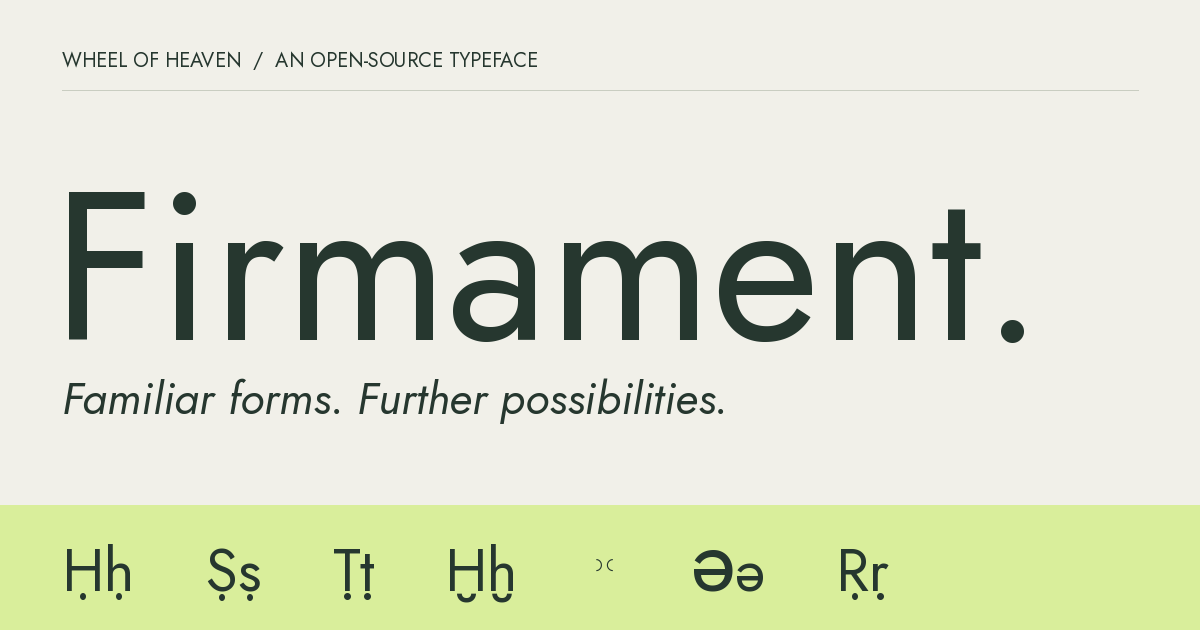
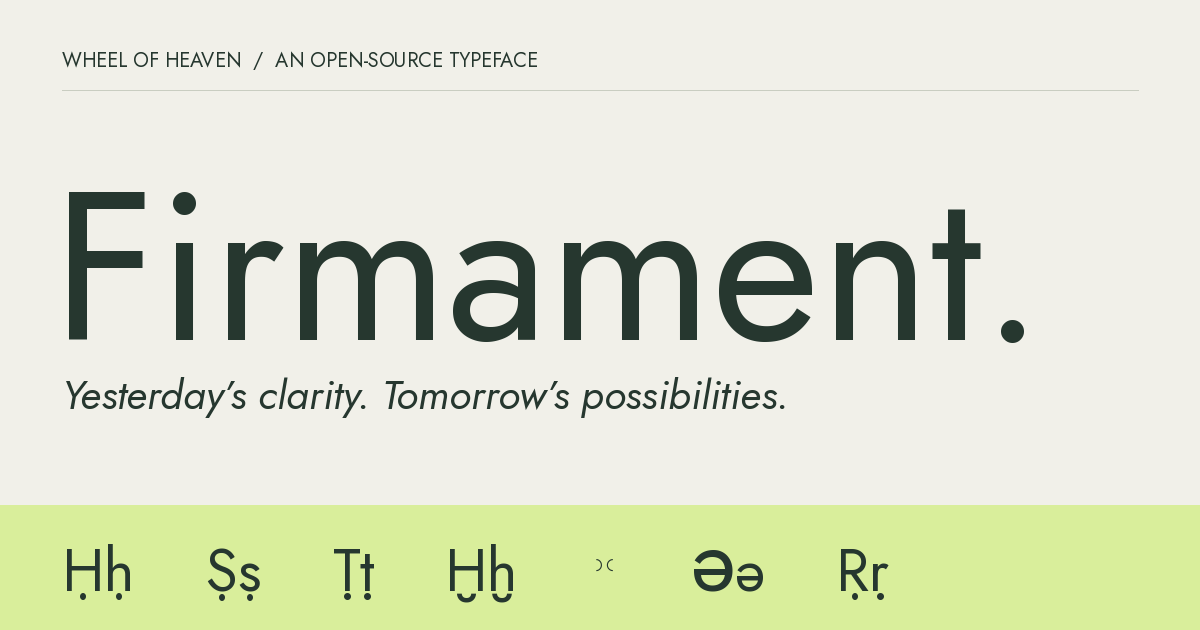
Tell Firmament’s modernist story and evaluate script expansion

Changed region(s): [[0.0308, 0.6032, 0.6475, 0.6635]]

diff --git a/templates/index.html b/templates/index.html
@@ -8,7 +8,7 @@
     <meta name="description" content="{{ config.description }}">
     <link rel="canonical" href="{{ config.base_url }}/">
     <meta property="og:title" content="Firmament Sans — A scholarly typeface">
-    <meta property="og:description" content="Familiar forms. Further possibilities. Four styles, 584 Unicode characters, and a growing vocabulary of diacritics.">
+    <meta property="og:description" content="1920s clarity. Tomorrow’s knowledge. A scholarly extension of Jost, built around the principle that form follows function.">
     <meta property="og:type" content="website">
     <meta property="og:url" content="{{ config.base_url }}/">
     <meta property="og:image" content="{{ get_url(path='assets/social.png') }}">
@@ -29,7 +29,7 @@
 <section class="hero wrap" id="top" aria-labelledby="hero-title">
     <div class="eyebrow hero__meta"><span>An open-source typeface · v0.1</span><span>By Wheel of Heaven</span></div>
     <h1 id="hero-title">Firmament<span class="hero__period">.</span></h1>
-    <div class="hero__bottom"><p class="hero__statement">Familiar forms.<br><em>Further possibilities.</em></p><div class="hero__intro"><p>A scholarly extension of Jost. Made for the words that carry a little more: a macron, a half ring, a history.</p><a class="text-link" href="#typesetter">Explore the specimen <span aria-hidden="true">↓</span></a></div></div>
+    <div class="hero__bottom"><p class="hero__statement">Yesterday’s clarity.<br><em>Tomorrow’s possibilities.</em></p><div class="hero__intro"><p>The spirit of 1920s German design, extended for the knowledge we pass forward. A scholarly typeface built on Jost. Form follows function; ideas travel further.</p><a class="text-link" href="#typesetter">Explore the specimen <span aria-hidden="true">↓</span></a></div></div>
     <div class="hero__facts"><span><strong>04</strong> Static styles</span><span><strong>584</strong> Unicode characters</span><span><strong>60</strong> New additions</span><span><strong>OFL</strong> Open Font License</span></div>
 </section>
 
@@ -45,7 +45,7 @@
             <label class="range-label">Leading <output id="type-leading-label" for="type-leading">1.15</output><input id="type-leading" type="range" min="100" max="180" value="115"></label>
             <fieldset class="swatches"><legend>Paper</legend><button type="button" data-paper="paper" class="swatch swatch--paper" aria-label="Paper background" aria-pressed="true"></button><button type="button" data-paper="ink" class="swatch swatch--ink" aria-label="Ink background" aria-pressed="false"></button><button type="button" data-paper="lime" class="swatch swatch--lime" aria-label="Lime background" aria-pressed="false"></button></fieldset>
         </div>
-        <div class="tester__canvas" id="type-canvas"><textarea id="type-text" rows="3" spellcheck="false" aria-label="Editable type specimen">Under the same sky,&#10;another way to read.</textarea></div>
+        <div class="tester__canvas" id="type-canvas"><textarea id="type-text" rows="3" spellcheck="false" aria-label="Editable type specimen">Form follows function.&#10;Knowledge travels further.</textarea></div>
         <div class="tester__footer"><div class="presets" aria-label="Sample texts"><button type="button" data-preset="sentence" aria-pressed="true">Sentence</button><button type="button" data-preset="pangram" aria-pressed="false">Pangram</button><button type="button" data-preset="scholarly" aria-pressed="false">Diacritics</button><button type="button" data-preset="cyrillic" aria-pressed="false">Cyrillic</button></div><button class="plain-button" id="reset-type" type="button">Reset ↺</button></div>
         <p class="tester__notice" id="coverage-notice" aria-live="polite"></p>
     </div>
@@ -80,20 +80,40 @@
     <p class="footnote">584 Unicode mappings per style. Spaces and invisible control characters are omitted from the grid. Combining marks appear with a dotted circle for visibility.</p>
 </section>
 
-<section class="poster" aria-label="Display specimen"><div class="wrap"><div class="eyebrow">06 / In large print</div><p class="poster__top">The shape<br>of <em>knowledge.</em></p><div class="poster__bottom"><span>Letters make room<br>for the world.</span><span class="poster__mark" aria-hidden="true">Aa<span>↗</span></span><span>Firmament Sans<br>Regular + Italic</span></div></div></section>
+<section class="poster" aria-label="Display specimen"><div class="wrap"><div class="eyebrow">06 / In large print</div><p class="poster__top">The shape<br>of <em>tomorrow.</em></p><div class="poster__bottom"><span>Knowledge, carried<br>from hand to hand.</span><span class="poster__mark" aria-hidden="true">Aa<span>↗</span></span><span>Firmament Sans<br>Regular + Italic</span></div></div></section>
 
 <section class="section wrap reading" id="reading" aria-labelledby="reading-title">
     <div class="section-head"><div class="eyebrow">07 / In small print</div><h2 id="reading-title">A face for staying a while.</h2><p>Display character, with room for a long thought.</p></div>
-    <div class="reading__columns"><article><span class="eyebrow">24 px / Regular</span><h3>The space between words</h3><p>Reading is an act of attention. A familiar shape becomes a sound, a sound becomes a word, and a word opens a world. Typography lives in that brief passage, giving each thought enough room to arrive.</p><p>When an unfamiliar letter appears, the sentence should still feel continuous. The marks may change; the rhythm remains.</p></article><article><span class="eyebrow">19 px / Regular + Italic</span><h3>A shared vocabulary</h3><p>Across languages, a line above a vowel or a dot below a consonant can carry a distinction that ordinary spelling leaves out. The terms <em>šāmayim</em>, <em>ḥayyīm</em>, and <em>ʾĕlōhīm</em> bring those distinctions into Latin letters.</p><p>Firmament began with these small interruptions in reading: a fallback character that sat a little too high, a mark that belonged to another typeface. Its additions aim to make the typography feel whole again.</p></article><article><span class="eyebrow">16 px / Regular + Bold</span><h3>Notes in the margin</h3><p><strong>Form and function.</strong> The family retains the geometry and proportions of Jost while extending its scholarly vocabulary. Regular and bold each have a corresponding italic.</p><p><strong>A growing set.</strong> Version 0.1 adds 60 Unicode mappings to full upstream Jost, including uppercase partners and combining marks. It is a starting point for further design and review.</p><p><strong>Open by design.</strong> The font source, build scripts, and coverage audit are available to study, modify, and improve under the Open Font License.</p></article></div>
+    <div class="reading__columns">
+        <article><span class="eyebrow">24 px / Regular</span><h3>What we pass forward</h3><p>Every generation inherits a world of words. Some arrive in books, others on screens; some survive only because someone took the trouble to copy them. Their next reader deserves the same care.</p><p>For Firmament, the best way to carry knowledge forward begins with form following function: letters that remain clear, distinctions that remain visible, and tools that others can use and improve.</p></article>
+        <article><span class="eyebrow">19 px / Regular + Italic</span><h3>A future we can read</h3><p>We imagine a society in which knowledge is easier to share, study, and question. Its typography should invite participation. A page can be precise and welcoming at once.</p><p>A dot below a consonant or a line above a vowel has work to do. In <em>ḥayyīm</em>, <em>šāmayim</em>, and <em>ʾĕlōhīm</em>, those marks carry distinctions into another alphabet. Giving them a coherent form is a small, practical contribution to that future.</p></article>
+        <article><span class="eyebrow">16 px / Regular + Bold</span><h3>Useful by design</h3><p><strong>Read.</strong> Keep the rhythm of a sentence intact, including the unfamiliar letters that give it meaning.</p><p><strong>Share.</strong> Make the typeface available under an open license, with its source and the means to build it.</p><p><strong>Continue.</strong> Leave the next generation something it can inspect, adapt, and improve. A living inheritance needs room to grow.</p></article>
+    </div>
 </section>
 
 <section class="section language"><div class="wrap"><div class="section-head"><div class="eyebrow">08 / Across the page</div><h2>Different words.<br>The same underlying voice.</h2><p>Selected reading proofs, rather than a claim of complete language coverage.</p></div><div class="language__rows"><div><span class="eyebrow">English</span><p lang="en">The quick brown fox jumps over the lazy dog.</p></div><div><span class="eyebrow">Deutsch</span><p lang="de">Zwölf große Bücher erzählen von fernen Ländern.</p></div><div><span class="eyebrow">Français</span><p lang="fr">À travers les siècles, les idées voyagent.</p></div><div><span class="eyebrow">Español</span><p lang="es">La curiosidad abre un diálogo entre épocas.</p></div><div><span class="eyebrow">Čeština</span><p lang="cs">Příliš žluťoučký kůň úpěl ďábelské ódy.</p></div><div><span class="eyebrow">Русский</span><p lang="ru">Слова соединяют времена и культуры.</p></div><div><span class="eyebrow">Transliteration</span><p>ā ē ī ō ū · š ś · ḥ ṣ ṭ ḫ · ṛ ṝ ḷ · ʾ ʿ</p></div></div></div></section>
 
 <section class="section wrap numbers" aria-labelledby="numbers-title"><div class="section-head"><div class="eyebrow">09 / Numbers & signs</div><h2 id="numbers-title">The rest of the sentence.</h2></div><p class="numbers__big">0123456789</p><div class="numbers__pairs"><p>€ £ $ ¥ ¢<br>+ − × ÷ = %</p><p class="italic">“A thought,” she said.<br>(And another.)</p></div><div class="waterfall"><p style="--size:48px">ABCDEFGHIJKLMNOPQRSTUVWXYZ</p><p style="--size:36px">abcdefghijklmnopqrstuvwxyz</p><p style="--size:28px">ÀÁÂÃÄÅ Æ Ç ÈÉÊË ÌÍÎÏ Ñ ÒÓÔÕÖ Ø ÙÚÛÜ Ý</p><p style="--size:22px">àáâãäå æ ç èéêë ìíîï ñ òóôõö ø ùúûü ý ÿ ß œ</p><p style="--size:17px">АБВГДЕЁЖЗИЙКЛМНОПРСТУФХЦЧШЩЪЫЬЭЮЯ · абвгдеёжзийклмнопрстуфхцчшщъыьэюя</p></div></section>
 
-<section class="section story" id="story" aria-labelledby="story-title"><div class="wrap story__layout"><div><div class="eyebrow">10 / Origins & intentions</div><h2 id="story-title">A new branch.<br>A familiar root.</h2><p class="lede">Firmament Sans is an independent scholarly extension of Jost, designed by Owen Earl at indestructible type.</p></div><div class="story__body"><p>The project began while reading Wheel of Heaven’s essays and etymologies. Jost fit the character of the site, but some transliterated letters required a different font. Firmament keeps the design that was already working and extends its reach.</p><p>The pilot adds scholarly Latin characters using Jost’s own accent and letter components, along with newly constructed half rings. Original Latin and Cyrillic forms remain, and each addition is built in regular, italic, bold, and bold italic.</p><p>The name points to the shared sky above a collection of languages and traditions. The work belongs to an open process: reproducible builds, a corpus-based inventory, and visual review.</p><div class="story__credits"><div><span>Original typeface</span><a href="https://indestructibletype.com/Jost.html">Jost · Owen Earl ↗</a></div><div><span>Scholarly extension</span><a href="https://www.wheelofheaven.world/">Wheel of Heaven ↗</a></div><div><span>License</span><a href="{{ get_url(path='downloads/OFL.txt') }}">SIL Open Font License 1.1 ↗</a></div></div></div></div></section>
+<section class="section story" id="story" aria-labelledby="story-title">
+    <div class="wrap">
+        <div class="story__layout">
+            <div><div class="eyebrow">10 / Origins & intentions</div><h2 id="story-title">A century of clarity.<br>A future to write.</h2><p class="lede">Firmament carries the spirit of German modernism into a typeface for shared knowledge.</p></div>
+            <div class="story__body"><p>In 1920s Germany, artists and designers reconsidered how everyday things could serve a changing society. The page became a place to experiment with order, economy, and new ways of seeing.</p><p>Our typographic starting point is <a href="https://indestructibletype.com/Jost.html">Jost, Owen Earl’s contemporary response to the spirit of Futura</a>. Firmament extends that work with scholarly characters. Its wider design outlook draws on three distinct currents of the period.</p></div>
+        </div>
+        <div class="story__movements">
+            <article><span class="eyebrow">01 / Bauhaus</span><h3>Design enters daily life.</h3><p>At the Bauhaus, the printing and advertising workshop brought experimental typography into practical communication. Established in Dessau in 1925, it treated the printed page as something to design for use.</p><a class="story__source" href="https://bauhauskooperation.de/en/knowledge/the-bauhaus/training/workshops/printing-and-advertising-workshop">The Bauhaus workshop ↗</a></article>
+            <article><span class="eyebrow">02 / New Typography</span><h3>Give thought an order.</h3><p>The New Typography made asymmetry, sans serif type, and the organisation of information central to a new graphic language. Jan Tschichold’s 1928 book helped articulate this international movement. We inherit its concern for a page’s purpose.</p><a class="story__source" href="https://www.moma.org/calendar/exhibitions/1013">The New Typography at MoMA ↗</a></article>
+            <article><span class="eyebrow">03 / New Objectivity</span><h3>Attend to what is there.</h3><p>New Objectivity brought a sober, often critical attention to the realities of Weimar life. For Firmament, that suggests a discipline: look closely, preserve distinctions, and let the subject remain visible. This is our interpretation of its relevance to type.</p><a class="story__source" href="https://www.moma.org/collection/terms/neue-sachlichkeit-new-objectivity">New Objectivity at MoMA ↗</a></article>
+        </div>
+        <div class="story__layout story__principle">
+            <div><div class="eyebrow">The principle we carry forward</div><h3 class="story__maxim">Form follows<br><em>function.</em></h3><p class="story__note">The maxim predates the Bauhaus: <a href="https://textbookofarchitecture.com/source/sullivan">Louis Sullivan formulated it in 1896</a>. Here, its function is the transmission of knowledge.</p></div>
+            <div class="story__body"><p>Our revival looks toward a society that makes knowledge available to everyone willing to learn. For us, the best way to pass it from one generation to the next is to design around that purpose: make it legible, keep its distinctions intact, and leave its tools open to improvement.</p><p>That purpose gives even the smallest mark a reason to exist. A macron carries a sound; a dot below a letter preserves a distinction. Beauty grows from how well these forms work together.</p><p>Firmament began among the essays and etymologies of <a href="https://www.wheelofheaven.world/">Wheel of Heaven</a>, where old words meet questions about humanity’s future. We like to keep our feet on the baseline and our eyes on the stars. The next turn of the wheel deserves something worth reading.</p><div class="story__credits"><div><span>Original typeface</span><a href="https://indestructibletype.com/Jost.html">Jost · Owen Earl ↗</a></div><div><span>Scholarly extension</span><a href="https://www.wheelofheaven.world/">Wheel of Heaven ↗</a></div><div><span>License</span><a href="{{ get_url(path='downloads/OFL.txt') }}">SIL Open Font License 1.1 ↗</a></div></div></div>
+        </div>
+    </div>
+</section>
 
-<section class="section wrap technical" aria-labelledby="technical-title"><div class="section-head"><div class="eyebrow">11 / Under the surface</div><h2 id="technical-title">Made to be inspected.</h2></div><div class="technical__layout"><dl class="specs"><div><dt>Release</dt><dd>0.1 · Optical-review pilot</dd></div><div><dt>Styles</dt><dd>Regular, Italic, Bold, Bold Italic</dd></div><div><dt>Weights</dt><dd>400 & 700</dd></div><div><dt>Formats</dt><dd>TTF · WOFF2</dd></div><div><dt>Coverage</dt><dd>584 Unicode mappings per style</dd></div><div><dt>New additions</dt><dd>60 Unicode mappings</dd></div><div><dt>Layout</dt><dd>Upstream kerning + below-mark attachment</dd></div><div><dt>License</dt><dd>SIL OFL 1.1</dd></div></dl><div class="technical__notes"><details open><summary>What is included in the pilot?</summary><p>Latin and Cyrillic coverage from full Jost, additional scholarly Latin forms, half-ring letters, schwa, and four combining marks below. Precomposed additions and their canonical decompositions are checked with HarfBuzz.</p></details><details><summary>What is still being developed?</summary><p>Broader IPA and modifier coverage, Egyptological letters, additional orthographies including Vietnamese, general accent stacking, and variable-font output. Optical placement and kerning of new characters remain open to review.</p></details><details><summary>Does it include Hebrew or Greek?</summary><p>Firmament is a Latin/Cyrillic family. Hebrew, Greek, cuneiform, and East Asian scripts need suitable companion fonts. Latin transliteration and original-script coverage are different things.</p></details><details><summary>Can I use it in a commercial project?</summary><p>Yes. The Open Font License permits use, embedding, modification, and redistribution subject to its terms. Include the copyright and license when redistributing the font. The font cannot be sold on its own.</p></details><details><summary>How can I contribute?</summary><p>Open an issue or a pull request in the font repository. Include the Unicode character, a sample word, the font style, and the size where you noticed the problem. The corpus audit provides a starting list of missing forms.</p><a class="text-link" href="https://github.com/wheelofheaven/firmament-sans">Explore the source ↗</a></details></div></div></section>
+<section class="section wrap technical" aria-labelledby="technical-title"><div class="section-head"><div class="eyebrow">11 / Under the surface</div><h2 id="technical-title">Made to be inspected.</h2></div><div class="technical__layout"><dl class="specs"><div><dt>Release</dt><dd>0.1 · Optical-review pilot</dd></div><div><dt>Styles</dt><dd>Regular, Italic, Bold, Bold Italic</dd></div><div><dt>Weights</dt><dd>400 & 700</dd></div><div><dt>Formats</dt><dd>TTF · WOFF2</dd></div><div><dt>Coverage</dt><dd>584 Unicode mappings per style</dd></div><div><dt>New additions</dt><dd>60 Unicode mappings</dd></div><div><dt>Layout</dt><dd>Upstream kerning + below-mark attachment</dd></div><div><dt>License</dt><dd>SIL OFL 1.1</dd></div></dl><div class="technical__notes"><details open><summary>What is included in the pilot?</summary><p>Latin and Cyrillic coverage from full Jost, additional scholarly Latin forms, half-ring letters, schwa, and four combining marks below. Precomposed additions and their canonical decompositions are checked with HarfBuzz.</p></details><details><summary>What is still being developed?</summary><p>Broader IPA and modifier coverage, Egyptological letters, additional orthographies including Vietnamese, general accent stacking, and variable-font output. Optical placement and kerning of new characters remain open to review.</p></details><details><summary>Could Firmament grow into more scripts?</summary><p>Yes. Our proposed direction is a coordinated family: a Greek extension, dedicated Hebrew and Arabic companions, and specialist cuneiform and CJK fonts. Each script needs its own letterforms and reading conventions. Version 0.1 remains a Latin/Cyrillic release; these additions are under evaluation.</p><a class="text-link" href="https://github.com/wheelofheaven/firmament.wheelofheaven.world/blob/main/docs/script-expansion.md">Read the script study ↗</a></details><details><summary>Can I use it in a commercial project?</summary><p>Yes. The Open Font License permits use, embedding, modification, and redistribution subject to its terms. Include the copyright and license when redistributing the font. The font cannot be sold on its own.</p></details><details><summary>How can I contribute?</summary><p>Open an issue or a pull request in the font repository. Include the Unicode character, a sample word, the font style, and the size where you noticed the problem. The corpus audit provides a starting list of missing forms.</p><a class="text-link" href="https://github.com/wheelofheaven/firmament-sans">Explore the source ↗</a></details></div></div></section>
 
 <section class="download" id="download" aria-labelledby="download-title"><div class="wrap"><div class="eyebrow">12 / Yours to work with</div><div class="download__top"><h2 id="download-title">Put it<br>into <em>words.</em></h2><div><p>Four styles. Desktop and web fonts.<br>The full family, under an open license.</p><a class="button button--large" href="{{ get_url(path='downloads/FirmamentSans-0.1.zip') }}" download>Download Firmament Sans <span aria-hidden="true">↓</span></a><p class="footnote">Version 0.1 · TTF + WOFF2 + OFL license</p></div></div><div class="download__links"><a href="https://github.com/wheelofheaven/firmament-sans">Font source ↗</a><a href="https://github.com/wheelofheaven/firmament-sans/blob/main/scholar/audit/README.md">Coverage audit ↗</a><a href="{{ get_url(path='downloads/OFL.txt') }}">Read the license ↗</a><a href="https://github.com/wheelofheaven/firmament-sans/issues">Feedback & contributions ↗</a></div></div></section>
 </main>

diff --git a/sass/main.scss b/sass/main.scss
@@ -19,6 +19,9 @@
 .numbers__big{font-size:clamp(60px,12vw,180px);letter-spacing:-.045em;line-height:1.1}.numbers__pairs{display:grid;grid-template-columns:1fr 1fr;margin:30px 0 50px;gap:30px}.numbers__pairs p{font-size:clamp(28px,4.5vw,65px);line-height:1.45;letter-spacing:-.025em}.waterfall{overflow:hidden}.waterfall p{font-size:var(--size);border-top:1px solid var(--line);padding:15px 0;white-space:nowrap;line-height:1.6;letter-spacing:.025em}
 .story{background:var(--ink);color:var(--paper)}.story__layout{display:grid;grid-template-columns:1fr 1fr;gap:10vw}.story h2{margin:24px 0 35px}.story .lede{max-width:30ch}.story__body>p{margin-bottom:25px;color:#d9dfd0;font-size:19px}.story__credits{margin-top:40px;border-top:1px solid #5c6c5e}.story__credits>div{display:flex;justify-content:space-between;gap:20px;padding:16px 0;border-bottom:1px solid #5c6c5e;font-size:14px}.story__credits span{color:#b5c2b0;font:11px/1.7 ui-monospace,monospace}.story__credits a{text-decoration:none}
 .technical__layout{display:grid;grid-template-columns:1fr 1fr;gap:8vw}.specs{margin:0}.specs>div{display:flex;justify-content:space-between;gap:25px;border-top:1px solid var(--line);padding:16px 0}.specs>div:last-child{border-bottom:1px solid var(--line)}.specs dt{color:var(--muted)}.specs dd{margin:0;text-align:right;font-size:16px;max-width:65%}.technical__notes details{border-top:1px solid var(--line)}.technical__notes details:last-child{border-bottom:1px solid var(--line)}.technical__notes summary{font-size:19px;padding:15px 25px 15px 0;cursor:pointer}.technical__notes details p{font-size:16px;line-height:1.7;margin:0 0 23px;color:var(--muted)}.technical__notes details .text-link{margin-bottom:23px}
+.story__movements{display:grid;grid-template-columns:repeat(3,minmax(0,1fr));gap:40px;margin:65px 0 75px}.story__movements article{border-top:1px solid #5c6c5e;padding-top:24px}.story__movements h3{margin:20px 0;font-size:29px}.story__movements p{color:#d9dfd0;font-size:18px;margin-bottom:20px}.story__source{font-size:13px}.story__principle{border-top:1px solid #5c6c5e;padding-top:50px}.story__maxim{font-size:clamp(48px,5vw,76px);line-height:1.05;letter-spacing:-.03em;margin:25px 0}.story__note{font-size:13px;color:#b5c2b0;max-width:40ch}.story__body p:last-of-type{margin-bottom:0}
+@media(max-width:720px){.story__movements{grid-template-columns:1fr;gap:35px;margin:45px 0}.story__movements h3{font-size:28px}.story__principle{padding-top:35px}}
+
 .download{padding-block:70px 30px;background:var(--lime)}.download__top{display:grid;grid-template-columns:1fr 1fr;gap:9vw;align-items:end;margin:35px 0 70px}.download h2{font-size:clamp(65px,9vw,135px);line-height:.95;letter-spacing:-.045em}.download__top>div>p:first-child{font-size:23px;margin-bottom:25px}.download__top .footnote{margin-top:15px}.download__links{display:flex;flex-wrap:wrap;justify-content:space-between;gap:20px;font-size:14px;border-top:1px solid #a2b679;padding-top:24px}.download__links a{text-decoration:none}.footer{display:flex;justify-content:space-between;align-items:center;gap:30px;padding-block:38px}.footer p{font-size:12px;line-height:1.65;color:var(--muted)}.footer>a:last-child{font-size:13px;text-decoration:none}
 @media(min-width:1600px){.nav{padding-inline:max(var(--side),calc((100vw - 1440px)/2))}}
 @media(max-width:1050px){.nav nav{gap:20px}.hero h1{font-size:17vw}.hero__bottom{gap:6vw}.hero__intro p{font-size:19px}.tester__controls{gap:20px}.range-label:nth-child(4){display:none}.tester__controls{grid-template-columns:1.1fr 1fr 1fr auto}.family__row{grid-template-columns:130px 1fr 25px}.anatomy{gap:6vw}.anatomy__visual{min-height:480px}.anatomy__visual img{height:400px}.glyph-toolbar{align-items:stretch;flex-direction:column;gap:10px}.search input{width:100%}.glyph-browser{grid-template-columns:1fr 240px;gap:20px}.glyph-detail__letter{font-size:160px;height:220px}.reading__columns{gap:28px}.story__layout{gap:6vw}.download__top{gap:5vw}.button--large{font-size:19px;padding:18px 20px}}

diff --git a/static/assets/main.js b/static/assets/main.js
@@ -3,7 +3,7 @@
   const $ = (s) => document.querySelector(s);
   const $$ = (s) => [...document.querySelectorAll(s)];
   const presets = {
-    sentence: 'Under the same sky,\nanother way to read.',
+    sentence: 'Form follows function.\nKnowledge travels further.',
     pangram: 'Sphinx of black quartz, judge my vow.',
     scholarly: 'ʾĕlōhīm · šāmayim · ḥayyīm\nṣedeq · ṭôḇ · ḫ · ṛ · ʿ',
     cyrillic: 'Слова соединяют\nвремена и культуры.'

diff --git a/scripts/render-social.py b/scripts/render-social.py
@@ -11,7 +11,7 @@ def font(size, italic=False):
 draw.text((62, 45), 'WHEEL OF HEAVEN  /  AN OPEN-SOURCE TYPEFACE', font=font(20), fill='#26372f')
 draw.line((62, 90, 1138, 90), fill='#c9cdc1', width=1)
 draw.text((52, 115), 'Firmament.', font=font(210), fill='#26372f')
-draw.text((62, 365), 'Familiar forms. Further possibilities.', font=font(45, True), fill='#26372f')
+draw.text((62, 365), 'Yesterday’s clarity. Tomorrow’s possibilities.', font=font(41, True), fill='#26372f')
 draw.rectangle((0, 505, 1200, 630), fill='#d9ee9b')
 draw.text((62, 527), 'Ḥḥ    Ṣṣ    Ṭṭ    Ḫḫ    ʾʿ    Əə    Ṛṛ', font=font(59), fill='#26372f')
 image.save(ROOT/'assets/social.png')

diff --git a/docs/script-expansion.md b/docs/script-expansion.md
@@ -1,0 +1,122 @@
+# Firmament beyond Latin and Cyrillic
+
+Evaluation, 22 October 2026. This is a proposed direction, not a release commitment.
+Firmament 0.1 remains the four-style, 584-codepoint Latin/Cyrillic pilot.
+No additional fonts are bundled by this study.
+
+## Recommendation
+
+Build a coordinated family, with each script designed for its readers.
+Extend Firmament itself with Greek; develop Hebrew and Arabic as separately built companions if commissioning original designs.
+Initially pair cuneiform and CJK with established specialist fonts under their original names.
+The shared identity should come from compatible visual weight, proportions, spacing, and reading rhythm, not from forcing Latin geometry onto other writing systems.
+
+There are two different milestones: reliable script coverage through curated companions, and original Firmament designs.
+The first is achievable much sooner.
+An open font can be a production companion without being renamed or described as our design.
+
+## Evidence from the existing corpus audit
+
+The committed [coverage inventory](https://github.com/wheelofheaven/firmament-sans/blob/main/scholar/audit/coverage.json) already contains all the requested script groups.
+These figures were aggregated from its `characters` entries, summing `count` and counting distinct entries per `category`:
+
+| Audit category | Distinct codepoints observed | Occurrences |
+| --- | ---: | ---: |
+| Greek | 174 | 283,346 |
+| Hebrew | 76 | 3,417,466 |
+| Arabic | 73 | 683,729 |
+| Cuneiform | 275 | 10,843 |
+| East Asian | 7,383 | 9,911,303 |
+
+This is the existing source-text snapshot, not a fresh crawl or a measurement of browser fallback.
+It combines published Markdown with library JSON strings, including translations, and groups characters by Unicode-name heuristics.
+The East Asian group combines Han, kana, Hangul, and related names; it is not a complete CJK repertoire.
+Common punctuation and combining marks can sit outside these groups.
+The audit also separates 30 Ugaritic codepoints from its cuneiform category.
+Observed characters are useful test material, not a sufficient font specification: readers need unobserved letters, punctuation, combinations, and future texts too.
+
+## Script-by-script assessment
+
+| Script | Proposed route | Main work | Relative original-design effort |
+| --- | --- | --- | --- |
+| Greek | Add a native Greek design to Firmament Sans | Modern and polytonic Greek, accents/breathings, iota subscript, spacing, four-style proofs | Medium; best first original extension |
+| Hebrew | Dedicated Firmament Hebrew companion; use Noto Sans Hebrew for initial pairing tests | Final letters, niqqud, cantillation, mark collisions, mixed-direction text | High for scholarly coverage |
+| Arabic | Dedicated Firmament Arabic companion; compare Noto Sans Arabic and Noto Naskh Arabic | Joining forms, cursive attachment, ligatures, stacked marks, language-specific forms | Very high; specialist-led |
+| Cuneiform | Curated Noto Sans Cuneiform companion before any bespoke design | Define periods/sign tradition, complete relevant blocks, dense wedge legibility, specialist proofreading | High for a new scholarly design |
+| CJK | Source Han Sans or Noto Sans CJK companions selected by language/region | Regional Han forms, kana, Hangul, punctuation, layout, large-font delivery | Very high; a separate major programme |
+
+These effort bands are design judgments, not quotes or calendar estimates.
+Scope, available source masters, and access to native readers determine the actual schedule.
+Start with a representative regular-weight proof before commissioning a full family.
+
+### Greek: the closest extension
+
+Greek can share Firmament's general texture while retaining native forms, especially in lowercase.
+Cover modern monotonic Greek and the polytonic needs of ancient texts from the start.
+Test canonically equivalent precomposed and decomposed text; stacked breathing/accent combinations must remain clear in both capitals and lowercase.
+Do not confuse Greek letters with visually similar Latin characters, or mathematical symbol coverage with Greek text coverage.
+Use [Unicode's Greek and Greek Extended specification](https://www.unicode.org/versions/Unicode17.0.0/core-spec/chapter-7/) to define the repertoire, and [Noto's Latin/Greek/Cyrillic sources](https://github.com/notofonts/latin-greek-cyrillic) as a comparison family.
+Commission Greek-reader review of paragraphs, not just alphabet sheets.
+
+### Hebrew: prioritize the pointed text
+
+The existing Hebrew site and source material give this work immediate value.
+A bare alphabet is a small part of the scholarly requirement: vowel points and cantillation need tested positioning around each letter and around one another.
+Final forms and Hebrew punctuation also belong in the scope.
+The font supplies glyphs and positioning; the application must supply correct right-to-left direction and isolation for embedded Latin text and numbers.
+See [W3C's Hebrew resources](https://www.w3.org/TR/hebr-lreq/) and [Noto Hebrew](https://github.com/notofonts/hebrew).
+Use an upright design with a reviewed emphasis strategy; Latin-style artificial italics should not be the default.
+
+### Arabic: design the connected word
+
+Arabic needs contextual joining, cursive positioning, and mark handling as a system.
+Copying isolated letters into a font does not produce readable Arabic.
+Begin with a defined Arabic repertoire; Persian, Urdu, and Qur'anic notation require explicit additional scope and reviewers.
+Compare Noto Sans Arabic for interface pairing and Noto Naskh Arabic for extended reading before choosing a design direction.
+A geometric or Kufic-influenced direction is worth prototyping, but suitability for dense scholarly reading must decide it.
+Do not carry the Latin specimen's tracking controls into Arabic: ordinary letter spacing can disrupt connected writing.
+See [W3C's Arabic and Persian layout requirements](https://www.w3.org/TR/alreq/) and the [Noto Arabic sources](https://github.com/notofonts/arabic).
+
+### Cuneiform: preserve the sign distinctions
+
+Start with Sumero-Akkadian coverage and document the intended sign-form tradition.
+Historical and regional variants need scholarly judgment; reducing wedges to a geometric motif can erase meaningful distinctions.
+Consider the main cuneiform block, numbers and punctuation, and Early Dynastic Cuneiform separately.
+Ugaritic and Old Persian have separate encodings and must not silently count as covered by a Sumero-Akkadian font.
+[Unicode's cuneiform chapter](https://www.unicode.org/versions/Unicode17.0.0/core-spec/chapter-11/) defines these distinctions.
+[Noto Sans Cuneiform](https://github.com/notofonts/cuneiform) is a candidate companion; verify its chosen release against the corpus and scholarly sign forms before adopting it.
+Prefer a readable regular style with sufficient size and line spacing over automatically generated bold or italic forms.
+
+### CJK: a family of regional solutions
+
+CJK means Chinese, Japanese, and Korean; it spans several writing systems.
+Chinese needs an explicit simplified/traditional and regional policy; Japanese needs kana alongside kanji, and Korean needs Hangul alongside any required Hanja.
+Shared Unicode Han characters can require different regional glyph forms.
+Set correct language tags and select the intended regional fonts; a single generic fallback cannot make those choices reliably.
+
+[Source Han Sans](https://github.com/adobe-fonts/source-han-sans) offers an established Pan-CJK family with source files and several deployment configurations.
+It is a strong first candidate for this geometric sans context, subject to visual pairing tests.
+Use language-specific web bundles and measured subsetting rather than downloading the entire family on every Latin page.
+Preserve characters needed for future content and search results; a current-page subset alone is insufficient for an editable typesetter.
+Japanese punctuation, line-breaking, ruby, and vertical composition require layout work beyond a font's character map; see [W3C's Japanese layout requirements](https://www.w3.org/TR/jlreq/).
+
+## Implementation sequence
+
+1. **Build a companion proof page.** Pin candidate releases and checksums; retain each name, authorship, and license. Use representative source passages, mixed-script lines, and paragraphs at actual reading sizes. Compare optical size, darkness, baseline, line height, and punctuation. No automatic outline scaling or merging.
+2. **Ship reliable reading support.** Introduce reviewed companions where the relevant script appears. Hebrew and CJK have immediate whole-site value; Greek, Arabic, and cuneiform also matter in source passages. Keep downloads modular and label which font renders each proof.
+3. **Draw Firmament Greek.** Begin with a regular proof, including polytonic text, then extend through the four styles after reader review. Develop editable source masters; the current scripted Latin accent additions are not a substitute for a multiscript source design.
+4. **Commission Hebrew, then Arabic proofs.** Work with script specialists. Prioritize pointed Hebrew for the existing corpus; define the Arabic language and notation scope before drawing. Let review determine the production weights and emphasis styles.
+5. **Reassess bespoke cuneiform and CJK.** Retain the specialist companions unless an identified reading problem justifies a substantial original-design project. A unified visual system does not require every outline to share one author or filename.
+
+## Release gates
+
+- Declare a precise repertoire and supported languages/notation; measure the remaining corpus gaps without claiming universal coverage.
+- Shape representative strings with HarfBuzz and proof them in browsers. Check missing glyphs, joining, marks, canonical-equivalence behavior, clipping, and selection/copy fidelity.
+- Test complete grapheme clusters. Do not split a base letter and its combining marks across independent font subsets. Preserve layout-table dependencies during subsetting.
+- Review right-to-left paragraphs and mixed-script spans with explicit `lang`, `dir`, and bidirectional isolation where appropriate. Keep logical Unicode order in the source.
+- Review CJK regional forms and punctuation in every supported locale. Test horizontal reading first; claim vertical layout only after it has been implemented and checked.
+- Require native-reader or relevant scholarly review at reading sizes, plus accessibility checks and PDF/desktop proofs when those outputs are supported.
+- Keep copyright, license, reserved-name requirements, source provenance, and build instructions with every redistributed font. Check the exact release's license before modification; adding companions is preferable to silently merging or relabeling them.
+- Measure actual transfer size and font-loading behavior on a mobile connection. Add script fonts on demand and keep the Latin-only path small.
+
+The design principle remains practical: form follows the function of the particular script, language, and reader.

diff --git a/README.md b/README.md
@@ -34,6 +34,12 @@ mise run check
 Review the statistics and release text when changing font versions.
 The main Wheel of Heaven website's font selection is independent of this showcase.
 
+## Design direction
+
+The public story connects Jost’s 1920s German sans-serif roots with Bauhaus, New Typography, and New Objectivity.
+Its outlook on knowledge transmission is Firmament’s contemporary design position; the historical movements remain distinct and linked to sources.
+See [the script-expansion evaluation](docs/script-expansion.md) for the proposed Greek, Hebrew, Arabic, cuneiform, and CJK strategy.
+
 ## Cloudflare Pages
 
 - Git repository: `wheelofheaven/firmament.wheelofheaven.world`
